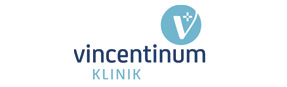
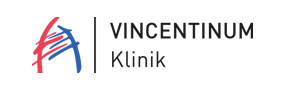
fix partner template

Changed region(s): [[0.1115, 0.1839, 0.7247, 0.9195], [0.3624, 0.046, 0.892, 0.5287]]

diff --git a/src/dps.sitetheme/dps/sitetheme/resources/dist/partner/index.html b/src/dps.sitetheme/dps/sitetheme/resources/dist/partner/index.html
@@ -61,4 +61,4 @@
     L145.476,72.168z"/> <path fill="#1A1A18" d="M154.739,51.002h3.086v21.949l14.015-12.248h4.115l-10.779,9.356l11.514,15.924h-3.871l-9.995-13.769
     l-4.998,4.164v9.604h-3.086V51.002L154.739,51.002z"/> <path fill="#1A1A18" d="M201.875,73.342c0,7.252-4.214,13.377-11.955,13.377c-7.742,0-11.955-6.125-11.955-13.377
     s4.213-13.375,11.955-13.375C197.661,59.967,201.875,66.09,201.875,73.342z M181.051,73.342c0,5.391,2.938,10.779,8.869,10.779
-    c5.928,0,8.868-5.39,8.868-10.779c0-5.389-2.94-10.777-8.868-10.777C183.991,62.564,181.051,67.953,181.051,73.342z"/> </g> </svg> </div> </div> </a> </div> <div class="app-header-panel app-header-actionbar"> <div class="app-actionbar" id="app-actionbar"> <div class="app-action-search"> <form class="app-searchbox" role="search" action="/dps/@@search"> <div class="app-searchbox-group"> <input class="app-searchbox-control app-searchbox-field" name="SearchableText" id="SearchableText" placeholder="Suchen nach..."> <button class="btn btn-default app-searchbox-control app-searchbox-btn" type="submit"> <i class="fa fa-search" aria-hidden="true"></i> <span class="sr-only">Suchen</span> </button> </div> </form> </div> <div class="app-actions"> <div class="btn-group dropdown"> <button type="button" class="btn btn-default app-action-left" data-toggle="dropdown" aria-haspopup="true" aria-expanded="false">Unsere Einrichtungen</button> <button type="button" class="btn btn-default dropdown-toggle app-action-right" data-toggle="dropdown" aria-haspopup="true" aria-expanded="false"> <span class="sr-only">Unsere Einrichtungen</span> </button> <ul class="dropdown-menu"> <li><i class="fa fa-caret-right"></i> <a href="https://diako-augsburg.de">Evangelische Diakonissenanstalt Augsburg</a></li> <li><i class="fa fa-caret-right"></i> <a href="https://stadtklinik-diako.de/">die stadtklinik im diako</a></li> <li><i class="fa fa-caret-right"></i> <a href="https://fachakademie-diako.de/">die fachakademie für sozialpädagogik des diako</a></li> <li><i class="fa fa-caret-right"></i> <a href="https://pauline-fischer-haus-diako.de/">das pauline fischer haus im diako</a></li> <li><i class="fa fa-caret-right"></i> <a href="http://www.hotel-am-alten-park.de/">das hotel am alten park</a></li> <li><i class="fa fa-caret-right"></i> <a href="http://www.zeitlos-augsburg.de/">zeit.los restaurant | café | lounge</a></li> </ul> </div> </div> </div> </div> </div> <div class="app-header-content"> <nav class="app-navbar" id="app-navbar" role="navigation"> <div class="app-navbar-header"> <div class="app-navbar-header-title"> <a class="app-navbar-brand" href="/">Rubriken</a> </div> <div class="app-navbar-header-toggle"> <button type="button" class="app-navbar-toggle navbar-toggler hidden-sm-up" data-toggle="collapse" data-target="#app-navbar-collapse"> <span class="sr-only">Toggle navigation</span> &#9776; </button> </div> </div> <div class="navbar-collapse app-navbar-collapse collapse navbar-toggleable-xs" id="app-navbar-collapse"> <ul class="app-navbar-nav" id="app-navbar-nav"> <li class="app-navitem active"> <a class="app-navitem-tab app-navitem-tab-home" href="../"> <span>Startseite</span> </a> </li> <li class="app-navitem"> <a class="app-navitem-tab" href="../diako"> <span>Diako</span> </a> </li> <li class="app-navitem"> <a class="app-navitem-tab" href="../gesundheut"> <span>Gesundheit</span> </a> </li> <li class="app-navitem active"> <a class="app-navitem-tab" href="../bildung"> <span>Bildung</span> </a> </li> <li class="app-navitem"> <a class="app-navitem-tab" href="../pflege"> <span>Pflege</span> </a> </li> <li class="app-navitem"> <a class="app-navitem-tab" href="../gastfreundschaft"> <span>Gastfreundschaft</span> </a> </li> <li class="app-navitem"> <a class="app-navitem-tab" href="../spiritualitaet"> <span>Spiritualität</span> </a> </li> </ul> </div> </nav> </div> </header> </div> <div class="app-pathbar hidden-sm-down" id="app-pathbar"> <ol class="breadcrumb"> <li><a href="#">Home</a></li> <li><a href="#">Library</a></li> <li class="active">Data</li> </ol> </div> <main class="app-main" role="main"> <section class="app-content"> <article class="app-content-main-full"> <main class="app-page" id="content"> <div class="app-page-header"> <div class="app-page-title"> <h1 class="app-page-headline">Yo - this is your new theme</h1> </div> <p class="app-page-abstract">This template was generated for you by our Yeoman Diazo theme package.</p> </div> <div class="app-page-body"> <p>Use this template as a starting point for further development</p> <p>Lorem ipsum dolor sit amet, consectetur adipisicing elit, sed do eiusmod tempor incididunt ut labore et dolore magna aliqua. Ut enim ad minim veniam, quis nostrud exercitation ullamco laboris nisi ut aliquip ex ea commodo consequat. Duis aute irure dolor in reprehenderit in voluptate velit esse cillum dolore eu fugiat nulla pariatur. Excepteur sint occaecat cupidatat non proident, sunt in culpa qui officia deserunt mollit anim id est laborum. </p> </div> </main> </article> </section> </main> <div class="app-partner-cards-wrapper"> <div class="app-partner-cards"> <div class="app-cards app-card-gutter"> <div class="app-card"> <a class="partner-card-link" href="http://www.klinik-vincentinum.de/"> <div class="partner-card partner-card-20"> </div> </a> </div> <div class="app-card"> <a class="partner-card-link" href="http://www.hessing-stiftung.de/home/"> <div class="partner-card partner-card-47"> </div> </a> </div> <div class="app-card"> <a class="partner-card-link" href="http://josefinum.de/"> <div class="partner-card partner-card-48"> </div> </a> </div> <div class="app-card"> <a class="partner-card-link" href="http://www.evang-sozialstation-augsburg.de/"> <div class="partner-card partner-card-49"> </div> </a> </div> <div class="app-card"> <a class="partner-card-link" href="http://www.sozialstation-gersthofen.de/index2.php"> <div class="partner-card partner-card-50"> </div> </a> </div> <div class="app-card"> <a class="partner-card-link" href="http://www.bkh-augsburg.de/"> <div class="partner-card partner-card-51"> </div> </a> </div> <div class="app-card"> <a class="partner-card-link" href="https://pauline-fischer-haus-diako.de/"> <div class="partner-card partner-card-01"></div> </a> </div> <div class="app-card"> <a class="partner-card-link" href="http://www.dr-frank-stiftung.de"> <div class="partner-card partner-card-02"> </div> </a> </div> <div class="app-card"> <a class="partner-card-link" href="http://www.pflegeheim-augustahof.de/"> <div class="partner-card partner-card-03"> </div> </a> </div> <div class="app-card"> <a class="partner-card-link" href="http://www.pflegeheim-schaefflerbach.de/"> <div class="partner-card partner-card-04"> </div> </a> </div> <div class="app-card"> <a class="partner-card-link" href="http://www.diakonie-augsburg.de/de/rat-hilfe/seniorinnen-senioren/pflegeheime/pflegeheim-am-lohwald"> <div class="partner-card partner-card-05"> </div> </a> </div> <div class="app-card"> <a class="partner-card-link" href="http://www.diakonie-augsburg.de/de/rat-hilfe/seniorinnen-senioren/pflegeheime/hofgarten-carr-e"> <div class="partner-card partner-card-06"> </div> </a> </div> <div class="app-card"> <a class="partner-card-link" href="http://www.diakonie-augsburg.de/de/rat-hilfe/seniorinnen-senioren/pflegeheime/pflegeheim-schl-le"> <div class="partner-card partner-card-07"> </div> </a> </div> <div class="app-card"> <a class="partner-card-link" href="http://www.diakonie-augsburg.de/de/karl-sommer-stift"> <div class="partner-card partner-card-08"> </div> </a> </div> <div class="app-card"> <a class="partner-card-link" href="http://www.diakonie-augsburg.de/de/rat-hilfe/seniorinnen-senioren/pflegeheime/paul-gerhardt-haus"> <div class="partner-card partner-card-09"> </div> </a> </div> <div class="app-card"> <a class="partner-card-link" href="http://www.apo-care.de/"> <div class="partner-card partner-card-10"> </div> </a> </div> <div class="app-card"> <a class="partner-card-link" href="http://altenhilfe-rummelsberg.de"> <div class="partner-card partner-card-11"> </div> </a> </div> <div class="app-card"> <a class="partner-card-link" href="http://www.hospitalstiftung-dinkelscherben.de"> <div class="partner-card partner-card-12"> </div> </a> </div> <div class="app-card"> <a class="partner-card-link" href="http://www.altenhilfe-augsburg.de/index.php?id=25162"> <div class="partner-card partner-card-13"> </div> </a> </div> <div class="app-card"> <a class="partner-card-link" href="http://www.altenhilfe-augsburg.de/index.php?id=25130"> <div class="partner-card partner-card-14"> </div> </a> </div> <div class="app-card"> <a class="partner-card-link" href="http://www.altenhilfe-augsburg.de/index.php?id=25146"> <div class="partner-card partner-card-15"> </div> </a> </div> <div class="app-card"> <a class="partner-card-link" href="http://www.altenhilfe-augsburg.de/index.php?id=25154"> <div class="partner-card partner-card-16"> </div> </a> </div> <div class="app-card"> <a class="partner-card-link" href="http://www.ruhesitz-wetterstein.de/"> <div class="partner-card partner-card-17"> </div> </a> </div> <div class="app-card"> <a class="partner-card-link" href="http://augsburg.vitalis-senioren.de/"> <div class="partner-card partner-card-18"> </div> </a> </div> <div class="app-card"> <a class="partner-card-link" href="http://www.mobiler-pflegekreis.de/"> <div class="partner-card partner-card-19"> </div> </a> </div> <div class="app-card"> <a class="partner-card-link" href="http://www.klinik-vincentinum.de/"> <div class="partner-card partner-card-20"> </div> </a> </div> <div class="app-card"> <a class="partner-card-link" href="http://www.pflegehilfe.org/awo-seniorenheimaichachmariasimon-pflege-aichach-2593"> <div class="partner-card partner-card-21"> </div> </a> </div> <div class="app-card"> <a class="partner-card-link" href="http://www.awo-schwaben.de/index.php?option=com_sobi2&amp;sobi2Task=sobi2Details&amp;catid=20&amp;sobi2Id=10&amp;Itemid=143"> <div class="partner-card partner-card-22"> </div> </a> </div> <div class="app-card"> <a class="partner-card-link" href="http://www.awo-schwaben.de/index.php?option=com_sobi2&amp;sobi2Task=sobi2Details&amp;catid=2&amp;sobi2Id=13&amp;Itemid=143"> <div class="partner-card partner-card-23"> </div> </a> </div> <div class="app-card"> <a class="partner-card-link" href="http://www.awo-schwaben.de/index.php?option=com_sobi2&amp;sobi2Task=sobi2Details&amp;catid=20&amp;sobi2Id=249&amp;Itemid=143"> <div class="partner-card partner-card-24"> </div> </a> </div> <div class="app-card"> <a class="partner-card-link" href="http://www.awo-augsburg.de/leben-im-alter/awo-sozialzentrum-herrenbach.html"> <div class="partner-card partner-card-25"> </div> </a> </div> <div class="app-card"> <a class="partner-card-link" href="http://www.awo-schwaben.de/index.php?option=com_sobi2&amp;sobi2Task=sobi2Details&amp;catid=2&amp;sobi2Id=9&amp;Itemid=143"> <div class="partner-card partner-card-26"> </div> </a> </div> <div class="app-card"> <a class="partner-card-link" href="http://www.awo-augsburg.de/leben-im-alter/awo-sozialzentrum-hammerschmiede.html"> <div class="partner-card partner-card-27"> </div> </a> </div> <div class="app-card"> <a class="partner-card-link" href="http://www.awo-augsburg.de/leben-im-alter/awo-seniorenzentrum-christian-dierig-haus.html"> <div class="partner-card partner-card-28"> </div> </a> </div> <div class="app-card"> <a class="partner-card-link" href="http://www.awo-schwaben.de/index.php?option=com_sobi2&amp;sobi2Task=sobi2Details&amp;catid=2&amp;sobi2Id=4&amp;Itemid=53"> <div class="partner-card partner-card-29"> </div> </a> </div> <div class="app-card"> <a class="partner-card-link" href="http://www.awo-schwaben.de/index.php?option=com_sobi2&amp;sobi2Task=sobi2Details&amp;catid=20&amp;sobi2Id=250&amp;Itemid=143"> <div class="partner-card partner-card-30"> </div> </a> </div> <div class="app-card"> <a class="partner-card-link" href="http://www.skf-augsburg.de/senioren/seniorenheim-st-afra.html"> <div class="partner-card partner-card-31"> </div> </a> </div> <div class="app-card"> <a class="partner-card-link" href="http://www.albaretto.de/"> <div class="partner-card partner-card-32"> </div> </a> </div> <div class="app-card"> <a class="partner-card-link" href="http://pflegezentrum-ederer.de/"> <div class="partner-card partner-card-33"> </div> </a> </div> <div class="app-card"> <a class="partner-card-link" href="http://www.kinder-krankenpflege.de/"> <div class="partner-card partner-card-34"> </div> </a> </div> <div class="app-card"> <a class="partner-card-link" href="http://www.pflegedienst-sonnenschein-kc.de"> <div class="partner-card partner-card-35"> </div> </a> </div> <div class="app-card"> <a class="partner-card-link" href="http://www.seniorenzentrum-zusmarshausen.de"> <div class="partner-card partner-card-36"> </div> </a> </div> <div class="app-card"> <a class="partner-card-link" href="http://www.schloss-elmischwang.de/ind2.htm"> <div class="partner-card partner-card-37"> </div> </a> </div> <div class="app-card"> <a class="partner-card-link" href="http://www.hospitalstiftung-dinkelscherben.de/"> <div class="partner-card partner-card-38"> </div> </a> </div> <div class="app-card"> <a class="partner-card-link" href="http://www.kursana.de/bobingen/"> <div class="partner-card partner-card-39"> </div> </a> </div> <div class="app-card"> <a class="partner-card-link" href="https://benevit.net/haeuser/lechauenhof.langweid/lageundkontakt.php"> <div class="partner-card partner-card-40"> </div> </a> </div> <div class="app-card"> <a class="partner-card-link" href="http://www.ebs-guenzburg.de/kreisaltenheim-burgau,41.html"> <div class="partner-card partner-card-41"> </div> </a> </div> <div class="app-card"> <a class="partner-card-link" href="http://www.ebs-guenzburg.de/wahl-lindersche-altenstiftung,40.html"> <div class="partner-card partner-card-42"> </div> </a> </div> <div class="app-card"> <a class="partner-card-link" href="http://www.ebs-guenzburg.de/kreisaltenheim-thannhausen,43.html"> <div class="partner-card partner-card-43"> </div> </a> </div> <div class="app-card"> <a class="partner-card-link" href="http://www.sozialstation-guenzburg.de/index.php?id=6"> <div class="partner-card partner-card-44"> </div> </a> </div> <div class="app-card"> <a class="partner-card-link" href="https://www.caritas.de/adressen/pfarrer-knaus-heim-kuehbach-e.-v/86556-kuehbach/95167"> <div class="partner-card partner-card-45"> </div> </a> </div> <div class="app-card"> <a class="partner-card-link" href="http://altenhilfe-rummelsberg.de/einrichtungen-und-standorte/burtenbach-schertlinhaus/"> <div class="partner-card partner-card-46"> </div> </a> </div> </div> </div> </div> <footer class="app-footer" id="app-footer" role="contentinfo"> <div class="app-footer-content"> <div class="app-footer-cards"> <div class="app-cards"> <div class="app-card-footer adress"> <div class="app-footer-header">Besuchen Sie uns!</div> <p><strong>Pflegeschulen für Alten-, Krankenpflege und Pflegefachhilfe</strong></p> <p><i class="fa fa-map-marker"></i> Hooverstraße 5<br/>86156 Augsburg</p> <p><i class="fa fa-phone"></i> 0821/263845 – 100 (Krankenpflege)<br/> <i class="fa fa-phone"></i> 0821/263845 – 150 (Altenpflege)<br/> <i class="fa fa-fax"></i> 0821/263845 - 160</p> <p><i class="fa fa-envelope-o"></i> <a class="app-footer-link" href="mailto:buero-pflegeschulen@diako-augsburg.de">buero-pflegeschulen@diako-augsburg.de</a></p> <br/> </div> <div class="app-card-footer map"> <div class="app-footer-header">So finden Sie uns!</div> <a rel="nofollow" href="https://goo.gl/maps/NMGxyjsBWEx"> <img class="img-fluid" src="/assets/img/map.jpg"/> </a> </div> </div> </div> </div> <div class="app-copyright"> <p>&copy; Evangelische Diakonissenanstalt Augsburg 2018 &middot; <a rel="nofollow" href="../">Startseite</a> &middot; <a rel="nofollow" href="../impressum">Impressum</a> &middot; <a rel="nofollow" href="../kontakt">Kontakt</a> </p> </div> </footer> <div> <script type="text/javascript">var _paq=_paq||[];_paq.push(["setDomains",["*.pflegeschulen-diako.de"]]),_paq.push(["trackPageView"]),_paq.push(["enableLinkTracking"]),function(){var e="//tkr.ade25.de/";_paq.push(["setTrackerUrl",e+"piwik.php"]),_paq.push(["setSiteId",141]);var a=document,p=a.createElement("script"),t=a.getElementsByTagName("script")[0];p.type="text/javascript",p.async=!0,p.defer=!0,p.src=e+"piwik.js",t.parentNode.insertBefore(p,t)}()</script> <noscript><p><img src="//tkr.ade25.de/piwik.php?idsite=141" style="border:0" alt=""/></p></noscript> </div>
+    c5.928,0,8.868-5.39,8.868-10.779c0-5.389-2.94-10.777-8.868-10.777C183.991,62.564,181.051,67.953,181.051,73.342z"/> </g> </svg> </div> </div> </a> </div> <div class="app-header-panel app-header-actionbar"> <div class="app-actionbar" id="app-actionbar"> <div class="app-action-search"> <form class="app-searchbox" role="search" action="/dps/@@search"> <div class="app-searchbox-group"> <input class="app-searchbox-control app-searchbox-field" name="SearchableText" id="SearchableText" placeholder="Suchen nach..."> <button class="btn btn-default app-searchbox-control app-searchbox-btn" type="submit"> <i class="fa fa-search" aria-hidden="true"></i> <span class="sr-only">Suchen</span> </button> </div> </form> </div> <div class="app-actions"> <div class="btn-group dropdown"> <button type="button" class="btn btn-default app-action-left" data-toggle="dropdown" aria-haspopup="true" aria-expanded="false">Unsere Einrichtungen</button> <button type="button" class="btn btn-default dropdown-toggle app-action-right" data-toggle="dropdown" aria-haspopup="true" aria-expanded="false"> <span class="sr-only">Unsere Einrichtungen</span> </button> <ul class="dropdown-menu"> <li><i class="fa fa-caret-right"></i> <a href="https://diako-augsburg.de">Evangelische Diakonissenanstalt Augsburg</a></li> <li><i class="fa fa-caret-right"></i> <a href="https://stadtklinik-diako.de/">die stadtklinik im diako</a></li> <li><i class="fa fa-caret-right"></i> <a href="https://fachakademie-diako.de/">die fachakademie für sozialpädagogik des diako</a></li> <li><i class="fa fa-caret-right"></i> <a href="https://pauline-fischer-haus-diako.de/">das pauline fischer haus im diako</a></li> <li><i class="fa fa-caret-right"></i> <a href="http://www.hotel-am-alten-park.de/">das hotel am alten park</a></li> <li><i class="fa fa-caret-right"></i> <a href="http://www.zeitlos-augsburg.de/">zeit.los restaurant | café | lounge</a></li> </ul> </div> </div> </div> </div> </div> <div class="app-header-content"> <nav class="app-navbar" id="app-navbar" role="navigation"> <div class="app-navbar-header"> <div class="app-navbar-header-title"> <a class="app-navbar-brand" href="/">Rubriken</a> </div> <div class="app-navbar-header-toggle"> <button type="button" class="app-navbar-toggle navbar-toggler hidden-sm-up" data-toggle="collapse" data-target="#app-navbar-collapse"> <span class="sr-only">Toggle navigation</span> &#9776; </button> </div> </div> <div class="navbar-collapse app-navbar-collapse collapse navbar-toggleable-xs" id="app-navbar-collapse"> <ul class="app-navbar-nav" id="app-navbar-nav"> <li class="app-navitem active"> <a class="app-navitem-tab app-navitem-tab-home" href="../"> <span>Startseite</span> </a> </li> <li class="app-navitem"> <a class="app-navitem-tab" href="../diako"> <span>Diako</span> </a> </li> <li class="app-navitem"> <a class="app-navitem-tab" href="../gesundheut"> <span>Gesundheit</span> </a> </li> <li class="app-navitem active"> <a class="app-navitem-tab" href="../bildung"> <span>Bildung</span> </a> </li> <li class="app-navitem"> <a class="app-navitem-tab" href="../pflege"> <span>Pflege</span> </a> </li> <li class="app-navitem"> <a class="app-navitem-tab" href="../gastfreundschaft"> <span>Gastfreundschaft</span> </a> </li> <li class="app-navitem"> <a class="app-navitem-tab" href="../spiritualitaet"> <span>Spiritualität</span> </a> </li> </ul> </div> </nav> </div> </header> </div> <div class="app-pathbar hidden-sm-down" id="app-pathbar"> <ol class="breadcrumb"> <li><a href="#">Home</a></li> <li><a href="#">Library</a></li> <li class="active">Data</li> </ol> </div> <main class="app-main" role="main"> <section class="app-content"> <article class="app-content-main-full"> <main class="app-page" id="content"> <div class="app-page-header"> <div class="app-page-title"> <h1 class="app-page-headline">Yo - this is your new theme</h1> </div> <p class="app-page-abstract">This template was generated for you by our Yeoman Diazo theme package.</p> </div> <div class="app-page-body"> <p>Use this template as a starting point for further development</p> <p>Lorem ipsum dolor sit amet, consectetur adipisicing elit, sed do eiusmod tempor incididunt ut labore et dolore magna aliqua. Ut enim ad minim veniam, quis nostrud exercitation ullamco laboris nisi ut aliquip ex ea commodo consequat. Duis aute irure dolor in reprehenderit in voluptate velit esse cillum dolore eu fugiat nulla pariatur. Excepteur sint occaecat cupidatat non proident, sunt in culpa qui officia deserunt mollit anim id est laborum. </p> </div> </main> </article> </section> </main> <div class="app-partner-cards-wrapper"> <div class="app-partner-cards"> <div class="app-cards app-card-gutter"> <div class="app-card"> <a class="partner-card-link" href="http://www.klinik-vincentinum.de/"> <div class="partner-card partner-card-20"> </div> </a> </div> <div class="app-card"> <a class="partner-card-link" href="http://www.hessing-stiftung.de/home/"> <div class="partner-card partner-card-47"> </div> </a> </div> <div class="app-card"> <a class="partner-card-link" href="http://josefinum.de/"> <div class="partner-card partner-card-48"> </div> </a> </div> <div class="app-card"> <a class="partner-card-link" href="http://www.evang-sozialstation-augsburg.de/"> <div class="partner-card partner-card-49"> </div> </a> </div> <div class="app-card"> <a class="partner-card-link" href="http://www.sozialstation-gersthofen.de/index2.php"> <div class="partner-card partner-card-50"> </div> </a> </div> <div class="app-card"> <a class="partner-card-link" href="http://www.bkh-augsburg.de/"> <div class="partner-card partner-card-51"> </div> </a> </div> <div class="app-card"> <a class="partner-card-link" href="https://pauline-fischer-haus-diako.de/"> <div class="partner-card partner-card-01"></div> </a> </div> <div class="app-card"> <a class="partner-card-link" href="http://www.dr-frank-stiftung.de"> <div class="partner-card partner-card-02"> </div> </a> </div> <div class="app-card"> <a class="partner-card-link" href="http://www.pflegeheim-augustahof.de/"> <div class="partner-card partner-card-03"> </div> </a> </div> <div class="app-card"> <a class="partner-card-link" href="http://www.pflegeheim-schaefflerbach.de/"> <div class="partner-card partner-card-04"> </div> </a> </div> <div class="app-card"> <a class="partner-card-link" href="http://www.diakonie-augsburg.de/de/rat-hilfe/seniorinnen-senioren/pflegeheime/pflegeheim-am-lohwald"> <div class="partner-card partner-card-05"> </div> </a> </div> <div class="app-card"> <a class="partner-card-link" href="http://www.diakonie-augsburg.de/de/rat-hilfe/seniorinnen-senioren/pflegeheime/hofgarten-carr-e"> <div class="partner-card partner-card-06"> </div> </a> </div> <div class="app-card"> <a class="partner-card-link" href="http://www.diakonie-augsburg.de/de/rat-hilfe/seniorinnen-senioren/pflegeheime/pflegeheim-schl-le"> <div class="partner-card partner-card-07"> </div> </a> </div> <div class="app-card"> <a class="partner-card-link" href="http://www.diakonie-augsburg.de/de/karl-sommer-stift"> <div class="partner-card partner-card-08"> </div> </a> </div> <div class="app-card"> <a class="partner-card-link" href="http://www.diakonie-augsburg.de/de/rat-hilfe/seniorinnen-senioren/pflegeheime/paul-gerhardt-haus"> <div class="partner-card partner-card-09"> </div> </a> </div> <div class="app-card"> <a class="partner-card-link" href="http://www.apo-care.de/"> <div class="partner-card partner-card-10"> </div> </a> </div> <div class="app-card"> <a class="partner-card-link" href="http://altenhilfe-rummelsberg.de"> <div class="partner-card partner-card-11"> </div> </a> </div> <div class="app-card"> <a class="partner-card-link" href="http://www.hospitalstiftung-dinkelscherben.de"> <div class="partner-card partner-card-12"> </div> </a> </div> <div class="app-card"> <a class="partner-card-link" href="http://www.altenhilfe-augsburg.de/index.php?id=25162"> <div class="partner-card partner-card-13"> </div> </a> </div> <div class="app-card"> <a class="partner-card-link" href="http://www.altenhilfe-augsburg.de/index.php?id=25130"> <div class="partner-card partner-card-14"> </div> </a> </div> <div class="app-card"> <a class="partner-card-link" href="http://www.altenhilfe-augsburg.de/index.php?id=25146"> <div class="partner-card partner-card-15"> </div> </a> </div> <div class="app-card"> <a class="partner-card-link" href="http://www.altenhilfe-augsburg.de/index.php?id=25154"> <div class="partner-card partner-card-16"> </div> </a> </div> <div class="app-card"> <a class="partner-card-link" href="http://www.ruhesitz-wetterstein.de/"> <div class="partner-card partner-card-17"> </div> </a> </div> <div class="app-card"> <a class="partner-card-link" href="http://augsburg.vitalis-senioren.de/"> <div class="partner-card partner-card-18"> </div> </a> </div> <div class="app-card"> <a class="partner-card-link" href="http://www.mobiler-pflegekreis.de/"> <div class="partner-card partner-card-19"> </div> </a> </div> <div class="app-card"> <a class="partner-card-link" href="http://www.pflegehilfe.org/awo-seniorenheimaichachmariasimon-pflege-aichach-2593"> <div class="partner-card partner-card-21"> </div> </a> </div> <div class="app-card"> <a class="partner-card-link" href="http://www.awo-schwaben.de/index.php?option=com_sobi2&amp;sobi2Task=sobi2Details&amp;catid=20&amp;sobi2Id=10&amp;Itemid=143"> <div class="partner-card partner-card-22"> </div> </a> </div> <div class="app-card"> <a class="partner-card-link" href="http://www.awo-schwaben.de/index.php?option=com_sobi2&amp;sobi2Task=sobi2Details&amp;catid=2&amp;sobi2Id=13&amp;Itemid=143"> <div class="partner-card partner-card-23"> </div> </a> </div> <div class="app-card"> <a class="partner-card-link" href="http://www.awo-schwaben.de/index.php?option=com_sobi2&amp;sobi2Task=sobi2Details&amp;catid=20&amp;sobi2Id=249&amp;Itemid=143"> <div class="partner-card partner-card-24"> </div> </a> </div> <div class="app-card"> <a class="partner-card-link" href="http://www.awo-augsburg.de/leben-im-alter/awo-sozialzentrum-herrenbach.html"> <div class="partner-card partner-card-25"> </div> </a> </div> <div class="app-card"> <a class="partner-card-link" href="http://www.awo-schwaben.de/index.php?option=com_sobi2&amp;sobi2Task=sobi2Details&amp;catid=2&amp;sobi2Id=9&amp;Itemid=143"> <div class="partner-card partner-card-26"> </div> </a> </div> <div class="app-card"> <a class="partner-card-link" href="http://www.awo-augsburg.de/leben-im-alter/awo-sozialzentrum-hammerschmiede.html"> <div class="partner-card partner-card-27"> </div> </a> </div> <div class="app-card"> <a class="partner-card-link" href="http://www.awo-augsburg.de/leben-im-alter/awo-seniorenzentrum-christian-dierig-haus.html"> <div class="partner-card partner-card-28"> </div> </a> </div> <div class="app-card"> <a class="partner-card-link" href="http://www.awo-schwaben.de/index.php?option=com_sobi2&amp;sobi2Task=sobi2Details&amp;catid=2&amp;sobi2Id=4&amp;Itemid=53"> <div class="partner-card partner-card-29"> </div> </a> </div> <div class="app-card"> <a class="partner-card-link" href="http://www.awo-schwaben.de/index.php?option=com_sobi2&amp;sobi2Task=sobi2Details&amp;catid=20&amp;sobi2Id=250&amp;Itemid=143"> <div class="partner-card partner-card-30"> </div> </a> </div> <div class="app-card"> <a class="partner-card-link" href="http://www.skf-augsburg.de/senioren/seniorenheim-st-afra.html"> <div class="partner-card partner-card-31"> </div> </a> </div> <div class="app-card"> <a class="partner-card-link" href="http://www.albaretto.de/"> <div class="partner-card partner-card-32"> </div> </a> </div> <div class="app-card"> <a class="partner-card-link" href="http://pflegezentrum-ederer.de/"> <div class="partner-card partner-card-33"> </div> </a> </div> <div class="app-card"> <a class="partner-card-link" href="http://www.kinder-krankenpflege.de/"> <div class="partner-card partner-card-34"> </div> </a> </div> <div class="app-card"> <a class="partner-card-link" href="http://www.pflegedienst-sonnenschein-kc.de"> <div class="partner-card partner-card-35"> </div> </a> </div> <div class="app-card"> <a class="partner-card-link" href="http://www.seniorenzentrum-zusmarshausen.de"> <div class="partner-card partner-card-36"> </div> </a> </div> <div class="app-card"> <a class="partner-card-link" href="http://www.schloss-elmischwang.de/ind2.htm"> <div class="partner-card partner-card-37"> </div> </a> </div> <div class="app-card"> <a class="partner-card-link" href="http://www.hospitalstiftung-dinkelscherben.de/"> <div class="partner-card partner-card-38"> </div> </a> </div> <div class="app-card"> <a class="partner-card-link" href="http://www.kursana.de/bobingen/"> <div class="partner-card partner-card-39"> </div> </a> </div> <div class="app-card"> <a class="partner-card-link" href="https://benevit.net/haeuser/lechauenhof.langweid/lageundkontakt.php"> <div class="partner-card partner-card-40"> </div> </a> </div> <div class="app-card"> <a class="partner-card-link" href="http://www.ebs-guenzburg.de/kreisaltenheim-burgau,41.html"> <div class="partner-card partner-card-41"> </div> </a> </div> <div class="app-card"> <a class="partner-card-link" href="http://www.ebs-guenzburg.de/wahl-lindersche-altenstiftung,40.html"> <div class="partner-card partner-card-42"> </div> </a> </div> <div class="app-card"> <a class="partner-card-link" href="http://www.ebs-guenzburg.de/kreisaltenheim-thannhausen,43.html"> <div class="partner-card partner-card-43"> </div> </a> </div> <div class="app-card"> <a class="partner-card-link" href="http://www.sozialstation-guenzburg.de/index.php?id=6"> <div class="partner-card partner-card-44"> </div> </a> </div> <div class="app-card"> <a class="partner-card-link" href="https://www.caritas.de/adressen/pfarrer-knaus-heim-kuehbach-e.-v/86556-kuehbach/95167"> <div class="partner-card partner-card-45"> </div> </a> </div> <div class="app-card"> <a class="partner-card-link" href="http://altenhilfe-rummelsberg.de/einrichtungen-und-standorte/burtenbach-schertlinhaus/"> <div class="partner-card partner-card-46"> </div> </a> </div> </div> </div> </div> <footer class="app-footer" id="app-footer" role="contentinfo"> <div class="app-footer-content"> <div class="app-footer-cards"> <div class="app-cards"> <div class="app-card-footer adress"> <div class="app-footer-header">Besuchen Sie uns!</div> <p><strong>Pflegeschulen für Alten-, Krankenpflege und Pflegefachhilfe</strong></p> <p><i class="fa fa-map-marker"></i> Hooverstraße 5<br/>86156 Augsburg</p> <p><i class="fa fa-phone"></i> 0821/263845 – 100 (Krankenpflege)<br/> <i class="fa fa-phone"></i> 0821/263845 – 150 (Altenpflege)<br/> <i class="fa fa-fax"></i> 0821/263845 - 160</p> <p><i class="fa fa-envelope-o"></i> <a class="app-footer-link" href="mailto:buero-pflegeschulen@diako-augsburg.de">buero-pflegeschulen@diako-augsburg.de</a></p> <br/> </div> <div class="app-card-footer map"> <div class="app-footer-header">So finden Sie uns!</div> <a rel="nofollow" href="https://goo.gl/maps/NMGxyjsBWEx"> <img class="img-fluid" src="/assets/img/map.jpg"/> </a> </div> </div> </div> </div> <div class="app-copyright"> <p>&copy; Evangelische Diakonissenanstalt Augsburg 2018 &middot; <a rel="nofollow" href="../">Startseite</a> &middot; <a rel="nofollow" href="../impressum">Impressum</a> &middot; <a rel="nofollow" href="../kontakt">Kontakt</a> </p> </div> </footer> <div> <script type="text/javascript">var _paq=_paq||[];_paq.push(["setDomains",["*.pflegeschulen-diako.de"]]),_paq.push(["trackPageView"]),_paq.push(["enableLinkTracking"]),function(){var e="//tkr.ade25.de/";_paq.push(["setTrackerUrl",e+"piwik.php"]),_paq.push(["setSiteId",141]);var a=document,p=a.createElement("script"),t=a.getElementsByTagName("script")[0];p.type="text/javascript",p.async=!0,p.defer=!0,p.src=e+"piwik.js",t.parentNode.insertBefore(p,t)}()</script> <noscript><p><img src="//tkr.ade25.de/piwik.php?idsite=141" style="border:0" alt=""/></p></noscript> </div>

diff --git a/src/dps.sitetheme/dps/sitetheme/resources/app/_includes/components/partner.html b/src/dps.sitetheme/dps/sitetheme/resources/app/_includes/components/partner.html
@@ -26,7 +26,6 @@
             {% include cards/partner-card-17.html %}
             {% include cards/partner-card-18.html %}
             {% include cards/partner-card-19.html %}
-            {% include cards/partner-card-20.html %}
             {% include cards/partner-card-21.html %}
             {% include cards/partner-card-22.html %}
             {% include cards/partner-card-23.html %}
